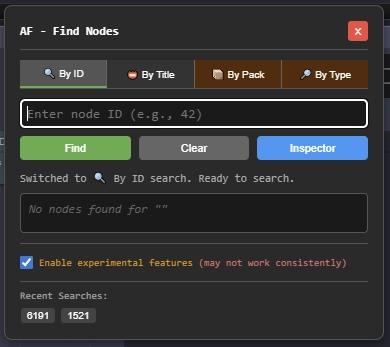
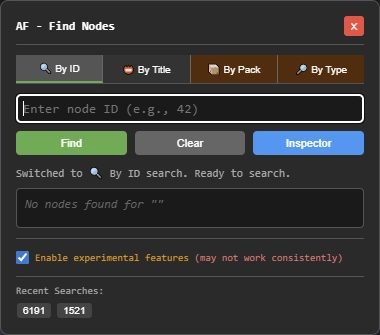
v0.0.8
- Minor changes for registry compliance
- Cropped the UI screenshot

Changed region(s): [[0.0, 0.0, 1.0, 1.0], [0.4632, 0.4179, 0.55, 0.4478], [0.4053, 0.597, 0.4342, 0.6269]]

diff --git a/README.md b/README.md
@@ -17,7 +17,7 @@ On top of that, Node-ID's are not visible by default. You have to switch them on
 
 Well - Here's the solution!
 
-<img width="390" height="347" alt="image" src="./Docs/screenshots/ComfyUI-AF-FindNodes-UI.webp" />
+<img width="380" height="335" alt="image" src="./Docs/screenshots/ComfyUI-AF-FindNodes-UI.webp" />
 
 Simply:
 1. Open AF - Find Nodes (`Ctrl+Shift+F`)

diff --git a/CHANGELOG.md b/CHANGELOG.md
@@ -1,5 +1,9 @@
 ## Changelog
 
+### v0.0.8
+- Minor changes for registry compliance
+- Cropped the UI screenshot 
+
 ### v0.0.7
 - Moved the JS to the web/ directory
 - Added nodes.py (empty basically, but needed for registration and distribution via ComfyUI Manager
